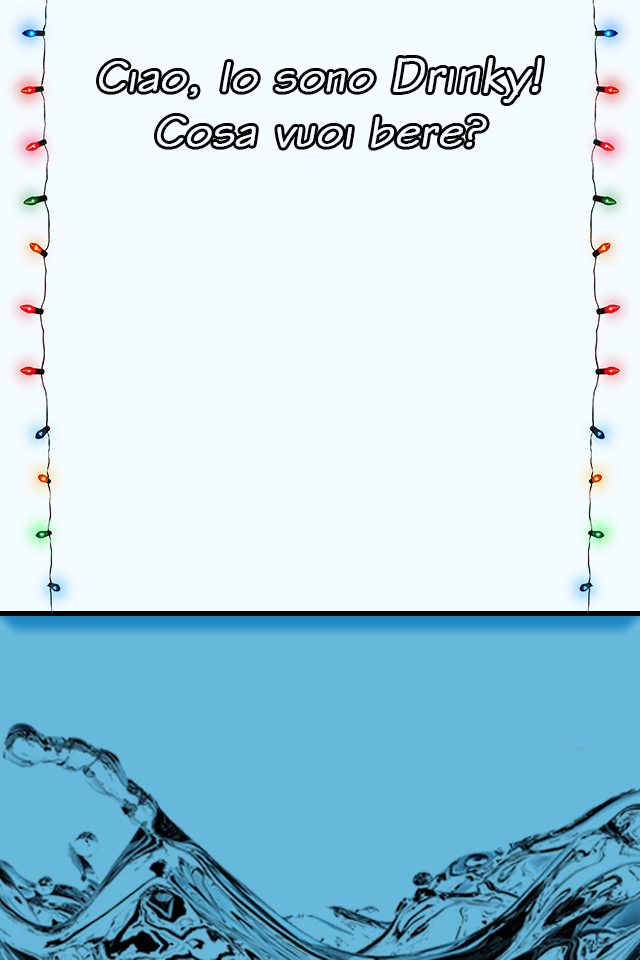
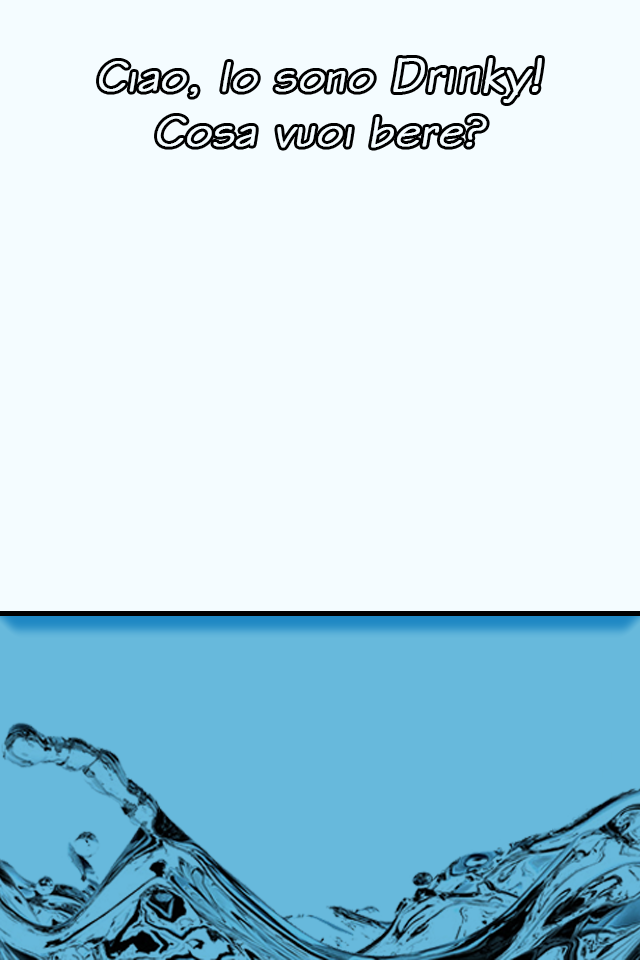
fix

diff --git a/app/lib/main.dart b/app/lib/main.dart
@@ -75,7 +75,7 @@ class _MainPageState extends State<MainPage> {
               children: [
                 new Container(
                   child: new Image.asset(
-                    'assets/images/logo-christmas.png',
+                    'assets/images/logo.png',
                     height: MediaQuery.of(context).size.height * 0.479,
                     fit: BoxFit.fill,
                   ),
